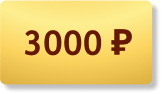
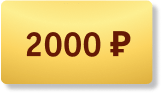
cert 2000

diff --git a/css/styles.css b/css/styles.css
@@ -3707,6 +3707,8 @@ table td:nth-child(3) {
     min-width: 90px;
     height: 40px;
     margin-right: 10px;
+    image-rendering: optimizequality;
+    image-rendering: -webkit-optimize-contrast;
 }
 
 .lvl-card-prize-img img {
